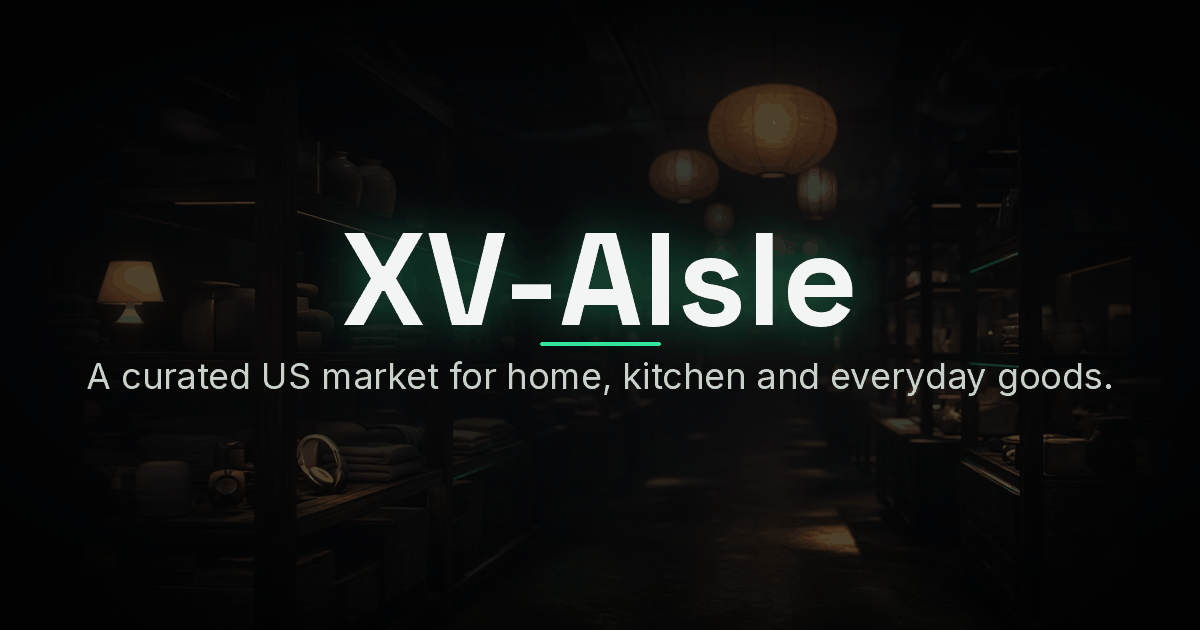
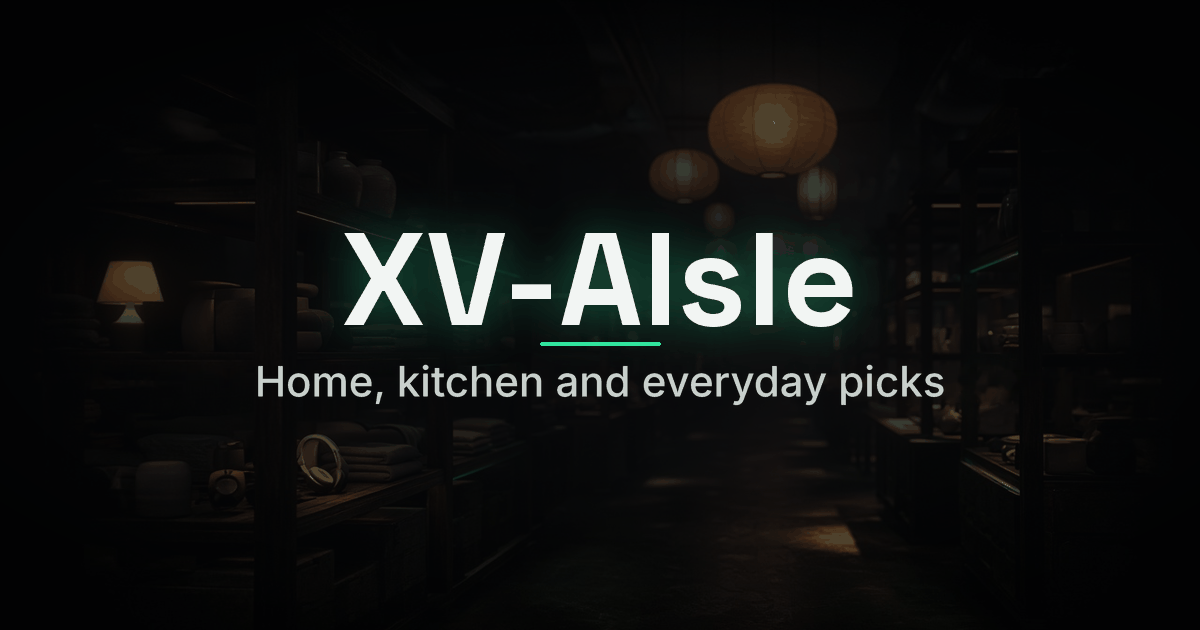
feat: refresh the share image and shorten the hero eyebrow
The public share card is the approved picture, versioned as ?v=2. The homepage eyebrow is the short picks line, and the image alt matches it.

Changed region(s): [[0.0617, 0.573, 0.925, 0.6333]]

diff --git a/scripts/check-x.ts b/scripts/check-x.ts
@@ -259,16 +259,16 @@ assert(shareMarkup.includes('aria-hidden="true"') && !shareMarkup.includes("TODO
 assert(shareMarkup.includes("xvaisle.com") && !shareMarkup.includes("localhost") && !shareMarkup.includes("127.0.0.1"), "the rendered share link stays on the public site");
 process.env.PUBLIC_SITE_URL = "https://preview.xvaisle.com";
 const previewCard = shareCard();
-assert(previewCard.url === "https://preview.xvaisle.com/og/og-image.png", "the share card uses PUBLIC_SITE_URL when it is public");
+assert(previewCard.url === "https://preview.xvaisle.com/og/og-image.png?v=2", "the share card uses PUBLIC_SITE_URL when it is public");
 delete process.env.PUBLIC_SITE_URL;
 const card = shareCard();
-assert(card.url === "https://xvaisle.com/og/og-image.png", "the share card defaults to the public site");
+assert(card.url === "https://xvaisle.com/og/og-image.png?v=2", "the share card defaults to the public site");
 assert(card.url.startsWith("https://"), "the share card image is absolute");
 assert(card.width === 1200 && card.height === 630, "the share card is 1200 by 630");
 assert(card.card === "summary_large_image", "the share card is a large image");
 assert(card.alt === SHARE_IMAGE_ALT, "the share card uses the approved alt text");
 const tags = JSON.stringify(shareCardMetadata());
-assert(tags.includes("https://xvaisle.com/og/og-image.png"), "og and twitter images are the absolute public card");
+assert(tags.includes("https://xvaisle.com/og/og-image.png?v=2"), "og and twitter images are the absolute public card");
 assert(tags.includes("summary_large_image"), "twitter card is summary_large_image");
 assert(!tags.includes("localhost") && !tags.includes("127.0.0.1"), "share card tags have no localhost");
 const layoutSource = readFileSync(join(process.cwd(), "src/app/layout.tsx"), "utf8");
@@ -282,7 +282,7 @@ assert(productCard.url === "https://xvaisle.com/art/mock-sheet-pan-1.png", "a pr
 assert(productCard.width === 1152 && productCard.height === 864, "a product card uses the file's real size");
 assert(!String(productCard.url).includes("localhost") && !String(productCard.url).includes("127.0.0.1"), "a product card image has no localhost");
 const siteCard = productOgImage("https://xvaisle.com", "", "Missing photo");
-assert(siteCard.url === "https://xvaisle.com/og/og-image.png", "a product without a photo uses the site card");
+assert(siteCard.url === "https://xvaisle.com/og/og-image.png?v=2", "a product without a photo uses the site card");
 assert(siteCard.width === 1200 && siteCard.height === 630, "the site card on a product is 1200 by 630");
 const productPage = readFileSync(join(process.cwd(), "src/app/shop/[productId]/page.tsx"), "utf8");
 assert(productPage.includes("productOgImage"), "product share cards set image width and height");

diff --git a/src/lib/share-card.ts b/src/lib/share-card.ts
@@ -2,11 +2,11 @@ import type { Metadata } from "next";
 import { publicSiteUrl } from "@/lib/config/env";
 
 export const SHARE_IMAGE_ALT =
-  "XV-AIsle wordmark over a dimly lit aisle of shelves with glowing lanterns. Home, kitchen and everyday picks, each linking to the store where you buy it.";
+  "XV-AIsle wordmark over a dimly lit aisle of shelves with glowing lanterns. Home, kitchen and everyday picks.";
 
 export function shareCard() {
   return {
-    url: `${publicSiteUrl()}/og/og-image.png`,
+    url: `${publicSiteUrl()}/og/og-image.png?v=2`,
     width: 1200,
     height: 630,
     alt: SHARE_IMAGE_ALT,

diff --git a/src/lib/hero-copy.ts b/src/lib/hero-copy.ts
@@ -1,6 +1,5 @@
 /** Exact eyebrow on the homepage hero. */
-export const HERO_EYEBROW =
-  "XV-AIsle gathers home, kitchen and everyday picks, each linking to the store where you buy it.";
+export const HERO_EYEBROW = "Home, kitchen and everyday picks";
 
 /**
  * Previous live headline.
